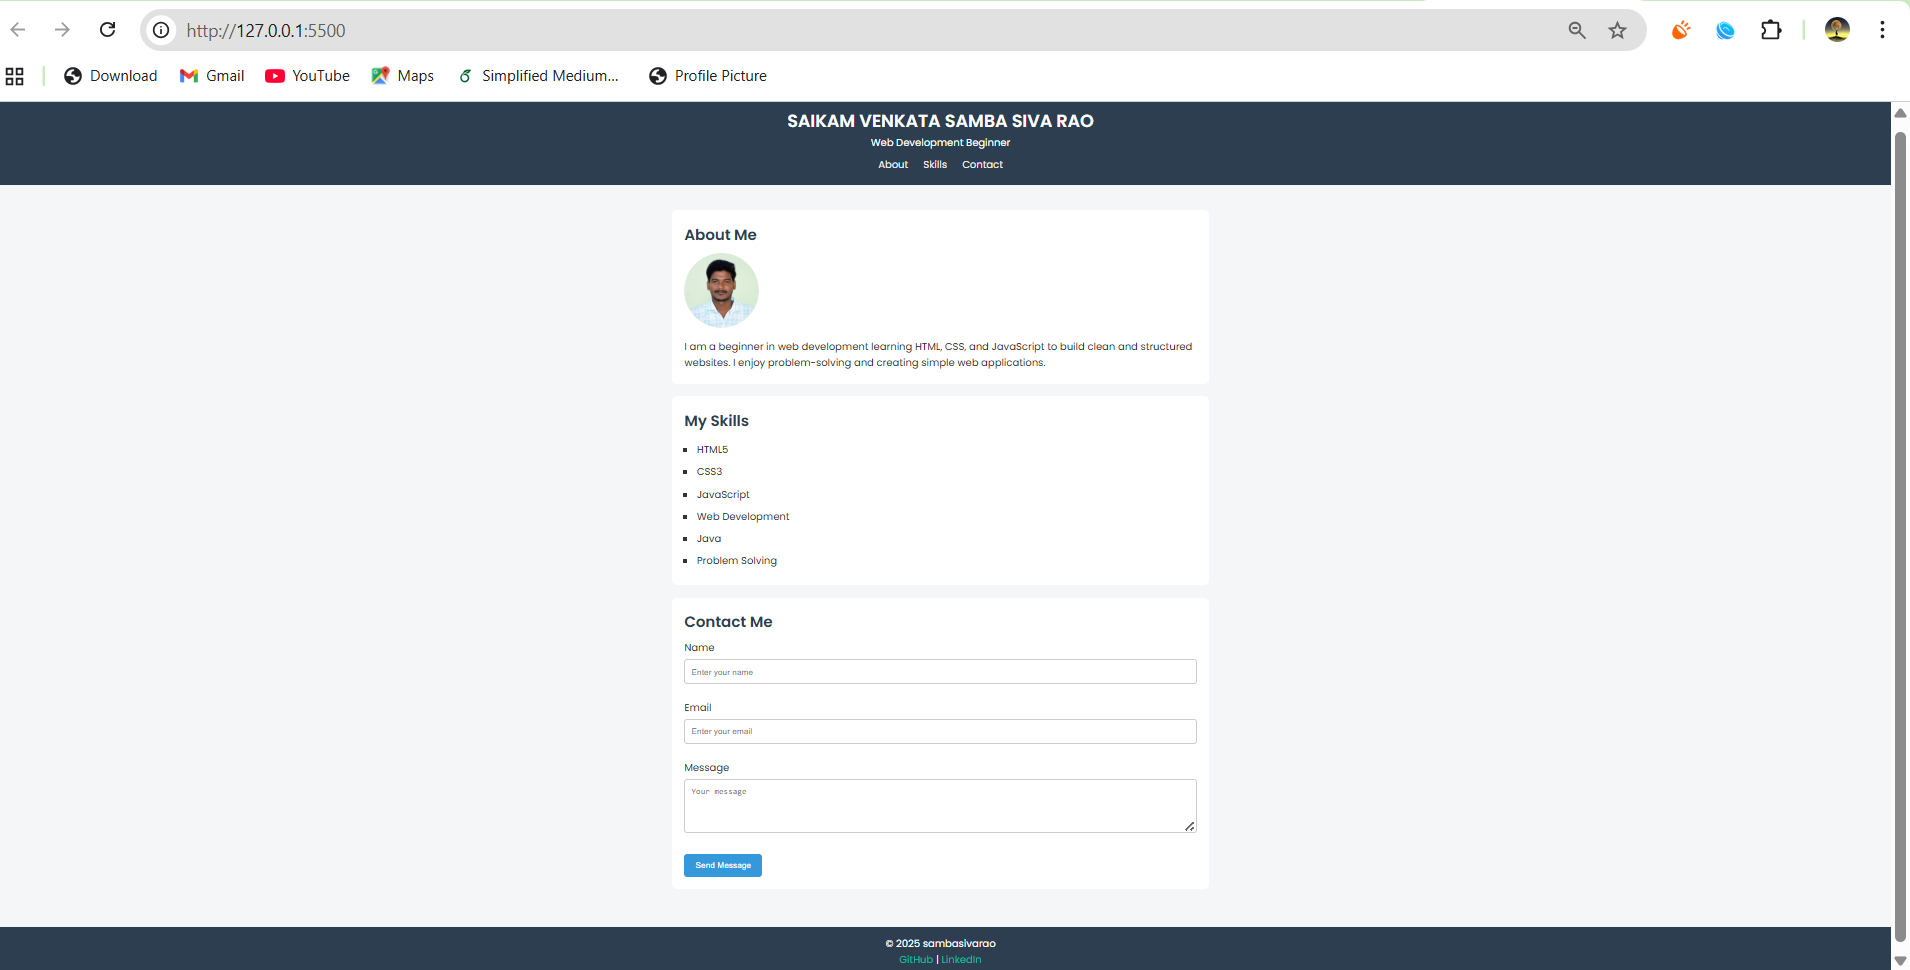
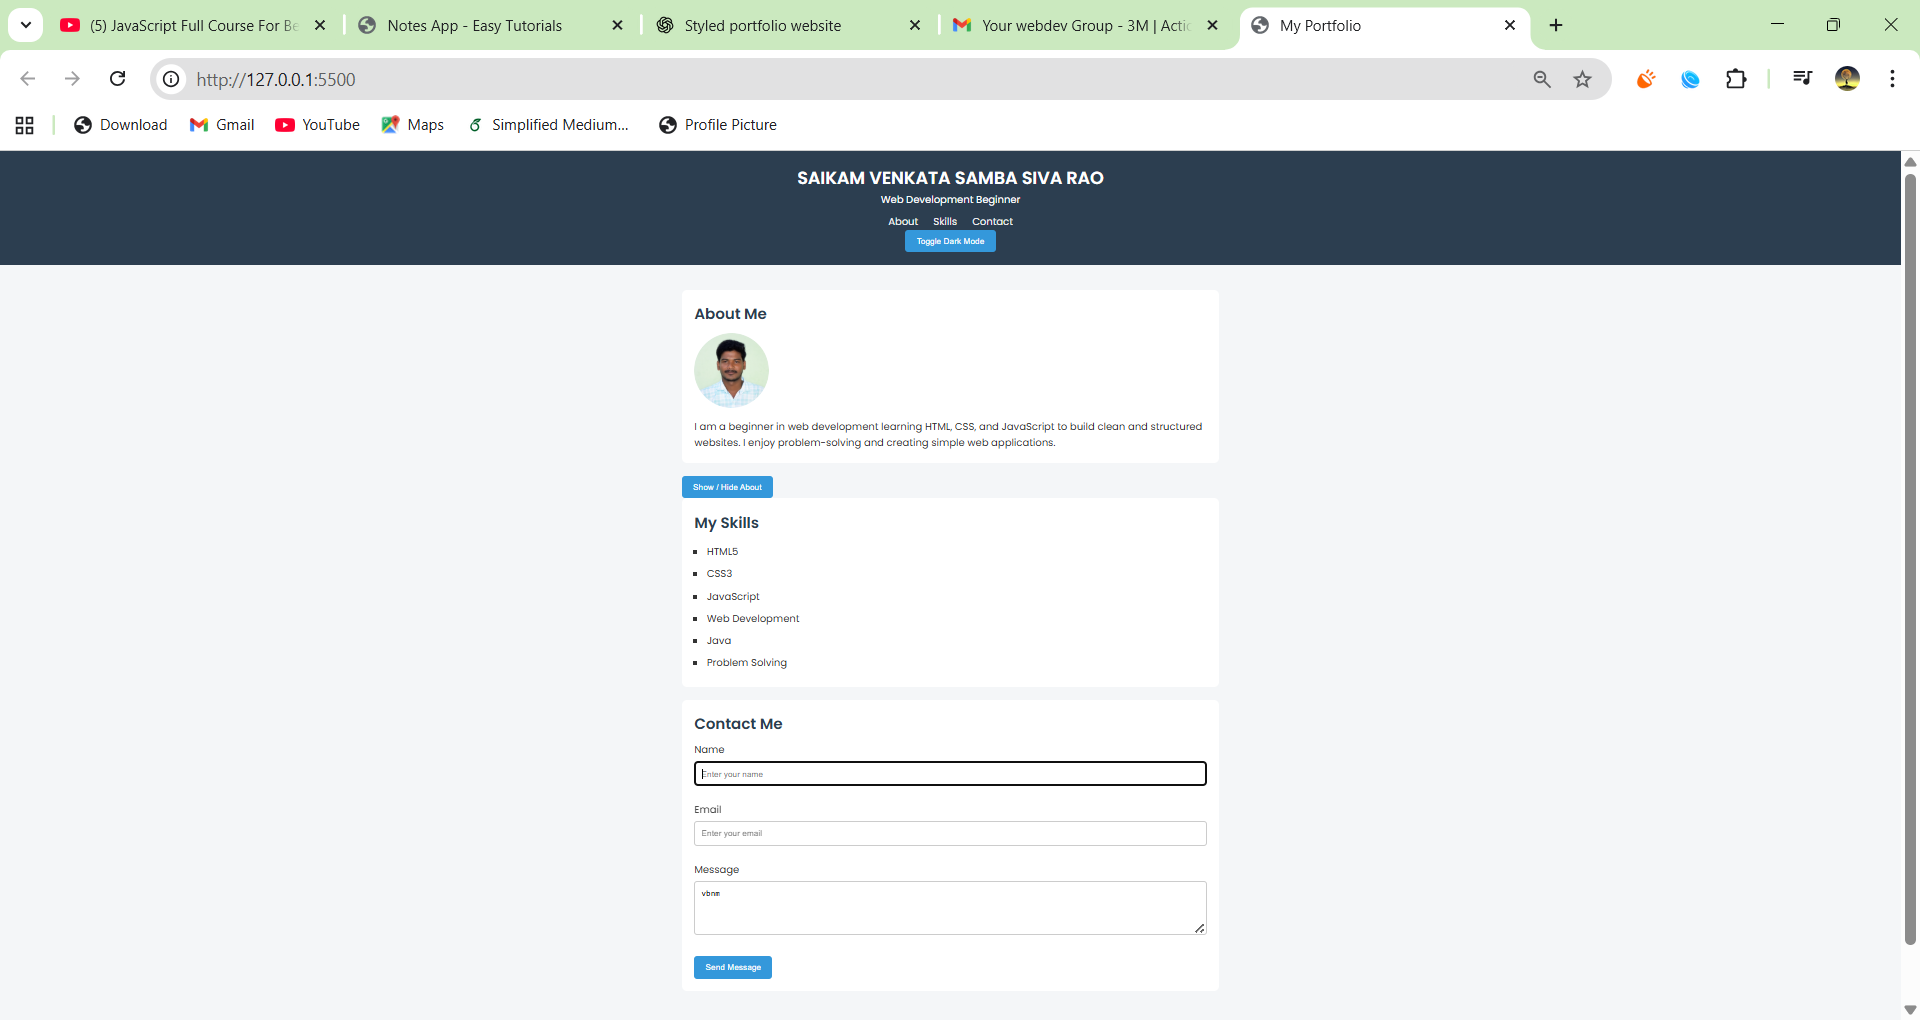
Local updates before pulling from GitHub

Changed region(s): [[0.0, 0.0, 1.0, 1.0]]

diff --git a/index.html b/index.html
@@ -1,5 +1,6 @@
 <!DOCTYPE html>
 <html lang="en">
+
 <head>
     <meta charset="UTF-8">
     <meta name="viewport" content="width=device-width, initial-scale=1.0">
@@ -26,6 +27,8 @@
             <a href="#skills">Skills</a>
             <a href="#contact">Contact</a>
         </nav>
+        <button onclick="toggleDarkMode()">Toggle Dark Mode</button>
+
     </header>
 
     <!-- Main Content -->
@@ -36,10 +39,12 @@
             <h2>About Me</h2>
             <img src="images/resume_photo.png" alt="Profile Picture" width="120" height="120">
             <p>
-                I am a beginner in web development learning HTML, CSS, and JavaScript to build clean and structured websites.
+                I am a beginner in web development learning HTML, CSS, and JavaScript to build clean and structured
+                websites.
                 I enjoy problem-solving and creating simple web applications.
             </p>
         </section>
+        <button onclick="toggleSection('about')">Show / Hide About</button>
 
         <!-- Skills Section -->
         <section id="skills">
@@ -58,7 +63,10 @@
         <section id="contact">
             <h2>Contact Me</h2>
 
-            <form>
+            <form id="contactForm" class="contact-form">
+                <span id="formError"></span>
+                <span id="formSuccess"></span>
+
                 <label for="name">Name</label><br>
                 <input type="text" id="name" placeholder="Enter your name" required><br><br>
 
@@ -80,6 +88,7 @@
         <a href="https://github.com/samba2226" target="_blank">GitHub</a> |
         <a href="https://www.linkedin.com/in/venkata-samba-siva-rao-saikam-595295251" target="_blank">LinkedIn</a>
     </footer>
-
+<Script src="script.js"></Script>
 </body>
+
 </html>

diff --git a/script.js b/script.js
@@ -1,0 +1,58 @@
+// PAGE LOAD CHECK
+console.log("JavaScript Loaded Successfully");
+
+// FORM VALIDATION
+document.getElementById("contactForm").addEventListener("submit", validateForm);
+
+function validateForm(event) {
+    event.preventDefault();
+
+    const email = document.getElementById("email").value.trim();
+    const message = document.getElementById("message").value.trim();
+    const error = document.getElementById("formError");
+    const success = document.getElementById("formSuccess");
+
+    error.textContent = "";
+    success.textContent = "";
+
+    if (!email.includes("@")) {
+        error.textContent = "Please enter a valid email address";
+        error.style.color = "red";
+        return;
+    }
+
+    if (message.length < 10) {
+        error.textContent = "Message must be at least 10 characters";
+        error.style.color = "red";
+        return;
+    }
+
+    success.textContent = "Message sent successfully!";
+    success.style.color = "green";
+
+    document.getElementById("contactForm").reset();
+}
+
+// DARK MODE TOGGLE
+function toggleDarkMode() {
+    document.body.classList.toggle("dark-mode");
+
+    const isDark = document.body.classList.contains("dark-mode");
+    localStorage.setItem("darkMode", isDark);
+}
+
+// Load user preference
+window.onload = function () {
+    if (localStorage.getItem("darkMode") === "true") {
+        document.body.classList.add("dark-mode");
+    }
+};
+
+
+// SHOW / HIDE CONTENT
+
+function toggleSection(id) {
+    const section = document.getElementById(id);
+    section.style.display =
+        section.style.display === "none" ? "block" : "none";
+}

diff --git a/Style.css b/Style.css
@@ -1,4 +1,4 @@
-/* Reset Default Styles */
+    /* Reset Default Styles */
 
 * {
     margin: 0;
@@ -126,6 +126,20 @@ footer a {
 footer a:hover {
     text-decoration: underline;
 }
+.dark-mode {
+    background-color: #1e1e1e;
+    color: white;
+}
+
+.dark-mode section {
+    background-color: #2b2b2b;
+}
+
+.dark-mode header,
+.dark-mode footer {
+    background-color: black;
+}
+
 
 /* Responsive Design */
 

diff --git a/README.md b/README.md
@@ -1,26 +1,33 @@
-**Personal Portfolio Website – Project Documentation**
 
-** Project Overview**
-The Styled Portfolio Website is a personal web page designed to showcase my profile, skills, and contact information. The main objective of this project is to apply HTML and CSS fundamentals to build a clean, structured, and responsive website. This project demonstrates my understanding of web layout, styling, and responsive design principles suitable for beginners in web development.
-** Setup Instructions**
-  Follow these steps to run the project locally:
-1.	Create a project folder named portfolio
-2.	Inside the folder, add the following files:
-•	index.html
-•	style.css
-3.	Create subfolders:
-•	images/ → store profile image
-•	screenshots/ → store project screenshots
-4.	Open index.html in any modern web browser (Chrome, Edge, Firefox)
-5.	Ensure style.css is properly linked in the <head> section
-**Code Structure**
- The project follows a clean and organized file structure:
+**Interactive Portfolio Website**
 
+This is a responsive and interactive personal portfolio website built using HTML, CSS, and JavaScript.
+The project showcases personal information, skills, and contact details while demonstrating core front-end development concepts and JavaScript interactivity.
+
+**Project Overview**
+
+The main goal of this project is to create a clean, user-friendly portfolio website with interactive features.
+It highlights practical implementation of:
+
+  Semantic HTML structure
+  Responsive CSS design
+  JavaScript-based interactivity and form validation
+
+This project is suitable for beginners and demonstrates real-world web development practices.
+
+**Technologies Used**
+
+  HTML5 – Structure and content
+  CSS3 – Styling, layout, and responsiveness
+  JavaScript (ES6) – Interactivity and logic
+  GitHub Pages – Deployment
+
+Project Structure
 portfolio/
 │
-├── index.html	 	(Main HTML file)
-├── style.css			(External CSS file)
-├── README.md  		(Documentation)
+├── index.html        # Main HTML file
+├── style.css         # Styling file
+├── script.js         # JavaScript functionality
 │
 ├── images/
 │   └── resume_photo.png
@@ -29,48 +36,65 @@ portfolio/
     ├── desktop-view.png
     └── mobile-view.png
 
- HTML uses semantic elements such as <header>, <main>, <section>, and <footer> to improve
- readability and accessibility.
-**CSS Concepts Used**
- The following CSS concepts are implemented in this project:
-•	CSS Reset to remove default browser margins and padding
-•	Selectors (element, class, and ID selectors)
-•	CSS Variables for consistent color scheme
-•	Flexbox for header layout and alignment
-•	Hover Effects for navigation links and buttons
-•	Media Queries for responsive design
-•	External Google Fonts for better typography
+**Features Implemented**
+**JavaScript Features**
 
-** Design Decisions**
-•	A simple color scheme was chosen for readability and professional appearance
-•	Flexbox was used to align navigation items efficiently
-•	Sections are placed inside cards using padding and border-radius for clean UI
-•	Buttons and links include hover effects to enhance user interaction
-•	A minimal design approach was followed to keep the layout beginner-friendly
-** Responsiveness Approach**
-    Responsive design is achieved using CSS media queries:
-•	Layout adapts for screens below 768px
-•	Navigation links stack vertically on smaller devices
-•	Font sizes and spacing are adjusted for mobile view
-•	Tested using Chrome DevTools mobile simulator
-   This ensures the website works smoothly on desktops, tablets, and mobile devices.
-** Visual Documentation**
-  Screenshots are included to demonstrate functionality:
-•	Desktop View – shows full layout and navigation
-•	Mobile View – shows responsive behaviour
- These screenshots are stored in the screenshots/ folder.
-**Technical Details**
-•	HTML5 is used for structure
-•	CSS3 is used for styling and layout
-•	Flexbox handles alignment
-•	No JavaScript is used, keeping the project purely HTML & CSS based
-•	External CSS improves maintainability and scalability
-**Testing Evidence**
-  The project was tested for:
-•	Navigation link functionality
-•	Form field validation (required inputs)
-•	Responsive behaviour across screen sizes
-•	Cross-browser compatibility (Chrome, Edge)
-  All components function as expected without errors.
- **Conclusion**
-This project successfully demonstrates the basics of HTML and CSS styling, layout techniques using Flexbox, responsive design, and clean code organization. It serves as a strong foundation for advanced frontend development.
+  DOM manipulation
+  Event handling (click, submit)
+  Reusable functions
+  Local Storage usage
+
+**Interactive Elements**
+
+  Dark / Light Mode toggle (saved using Local Storage)
+  Interactive image slider
+  Show / Hide content sections
+  Real-time form validation feedback
+
+**Form Validation**
+
+  Email format validation
+  Required field checks
+  Minimum message length validation
+  Dynamic error and success messages
+
+**Setup Instructions**
+  Clone the repository:
+  git clone https://github.com/samba2226/portfolio.git
+  Open the project folder in VS Code
+  Open index.html in a browser
+  OR
+  Use Live Server for real-time preview
+
+**Live Demo**
+ GitHub Pages Link:
+ https://samba2226.github.io/portfolio/
+
+(Make sure GitHub Pages is enabled from repository settings)
+
+ **Testing**
+
+  Tested on Google Chrome
+  Responsive testing using Chrome DevTools (mobile simulator)
+  Manual validation testing for form inputs
+  Theme persistence tested using page reload
+
+ **Screenshots**
+
+Screenshots of:
+
+  Desktop view
+  Mobile responsive view
+  Dark mode
+  Form validation messages
+
+(Stored inside the screenshots/ folder)
+
+ **License**
+
+This project is created for learning and academic purposes.
+
+**Author**
+Saikam Venkata Samba Siva Rao
+ GitHub: samba2226
+LinkedIn: Venkata Samba Siva Rao Saikam
